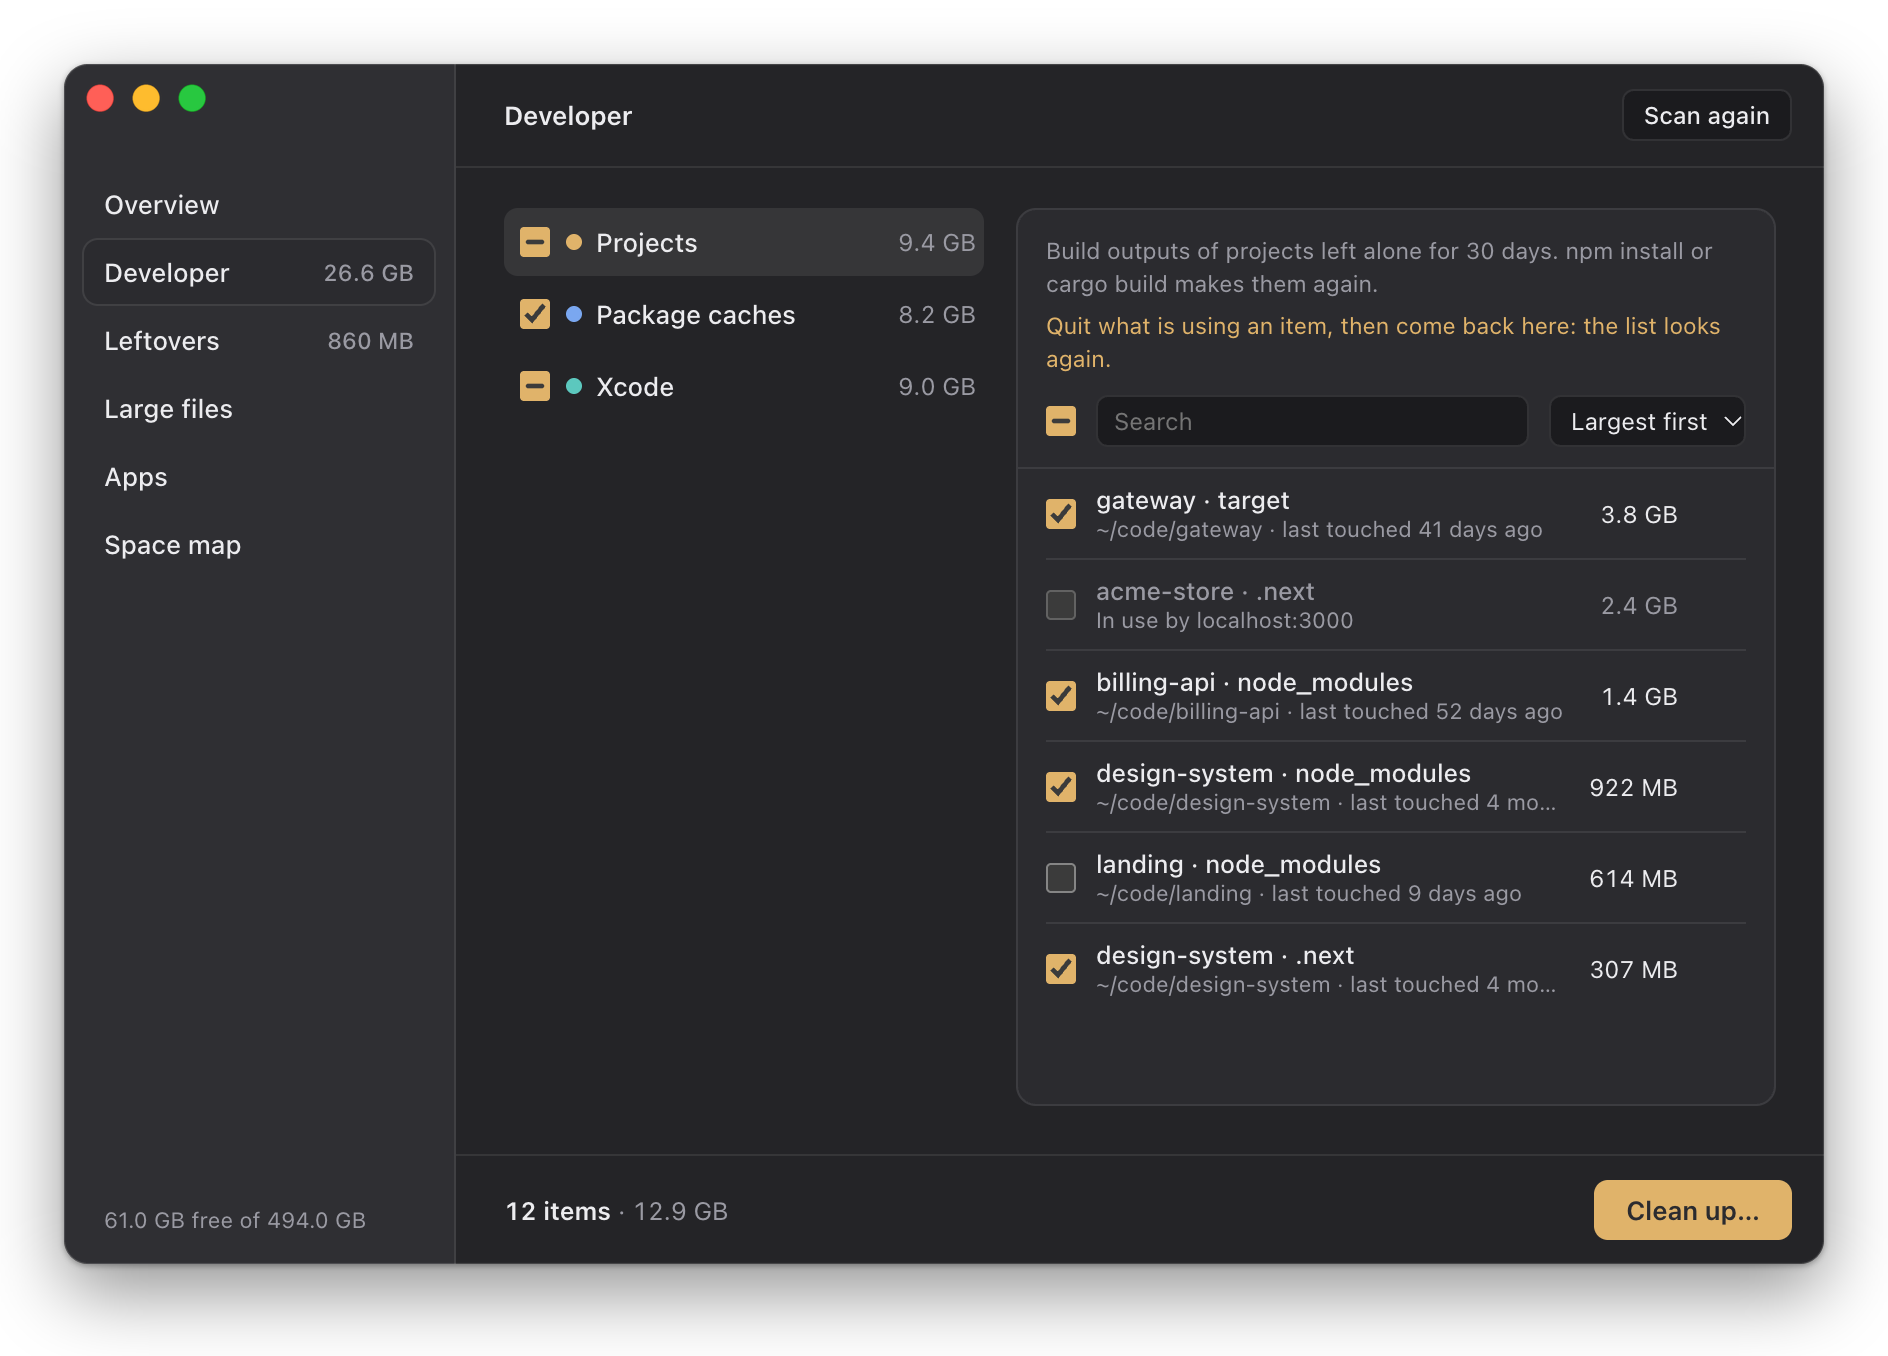
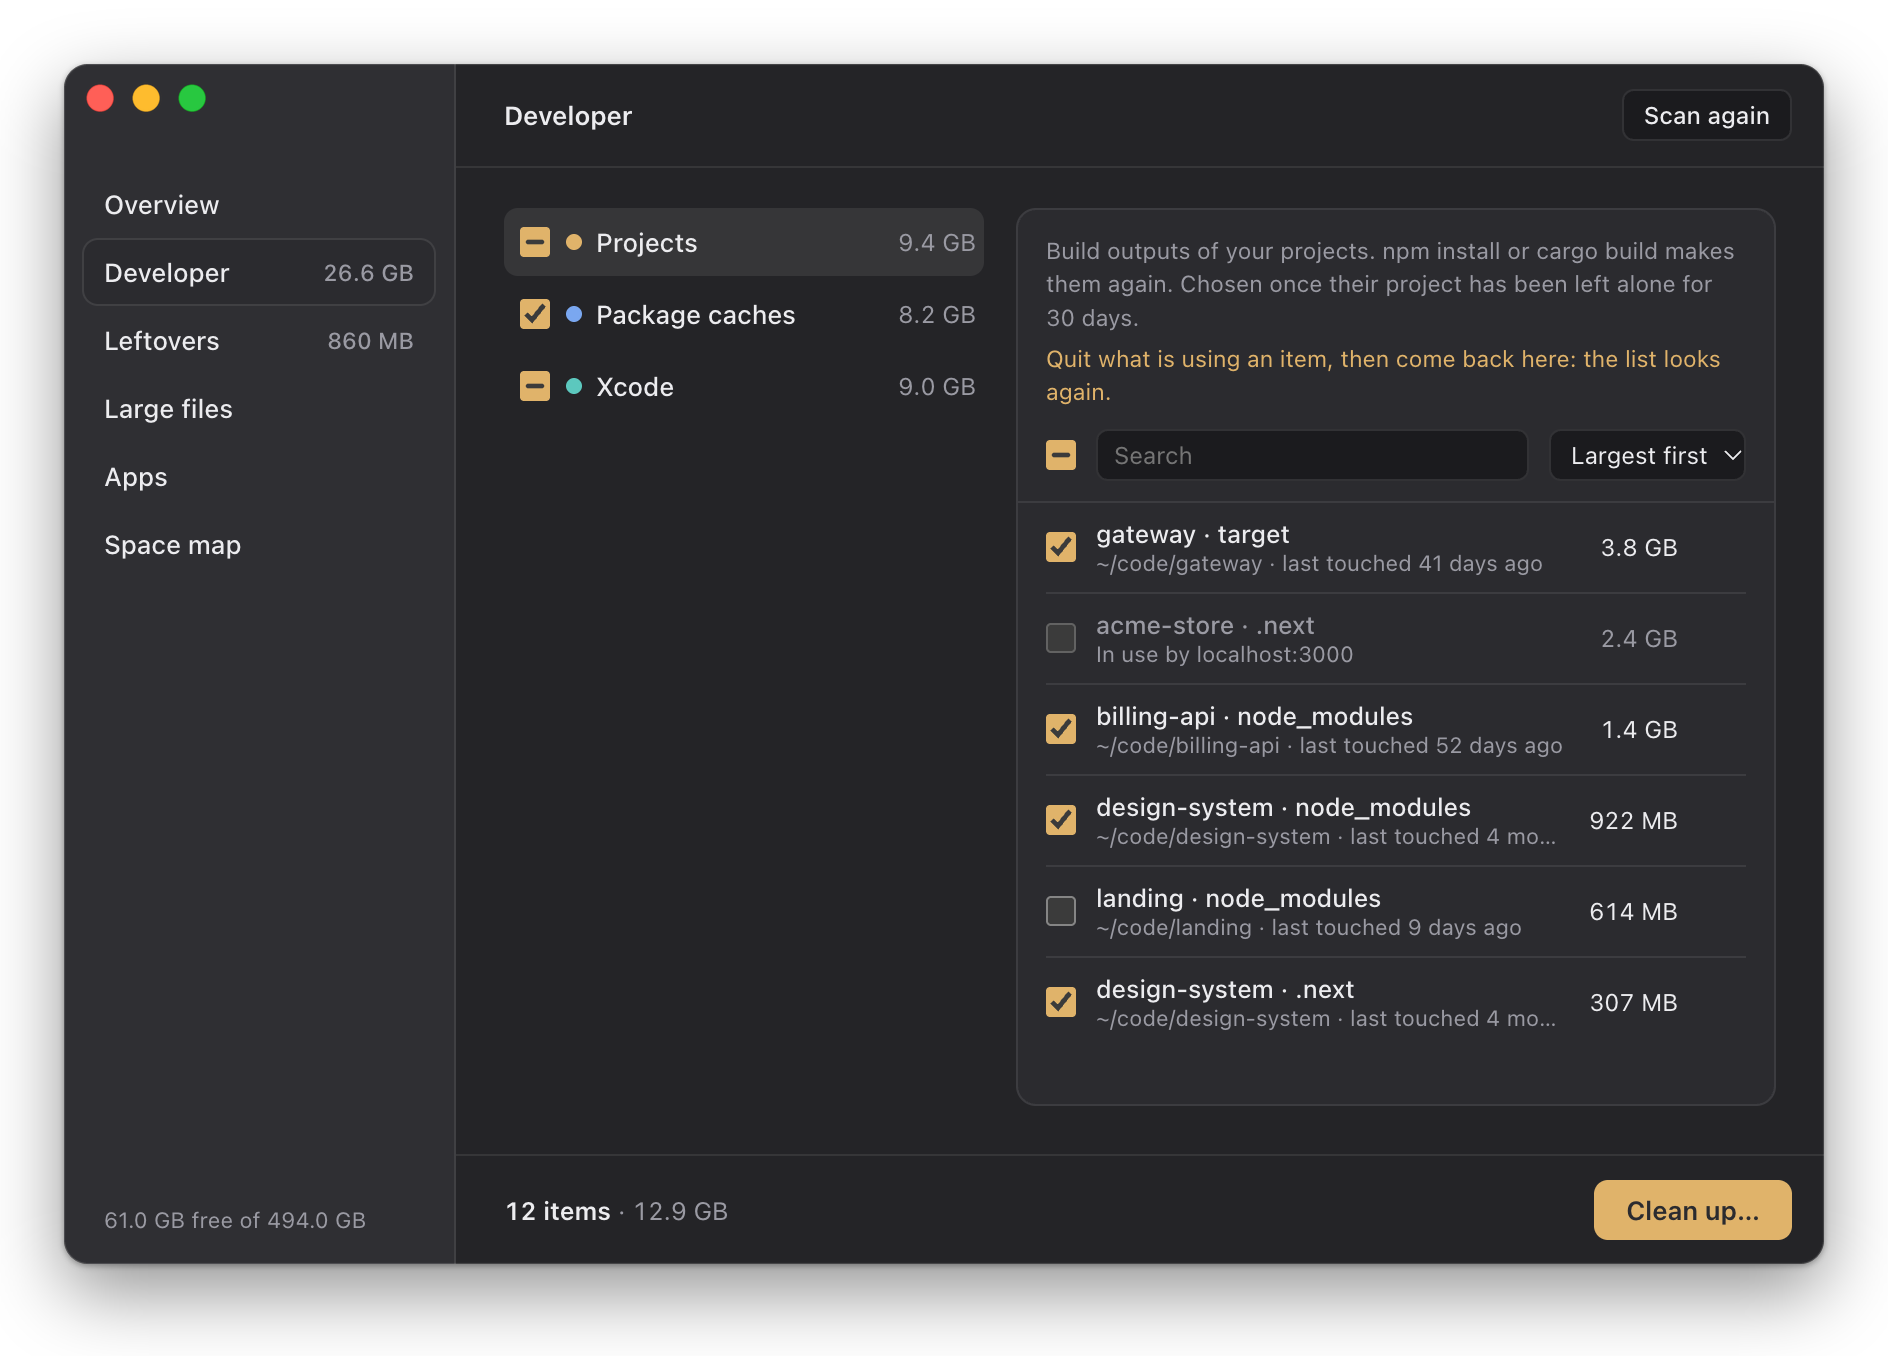
docs: say how the daemons keeping an item in use can be stopped, and retake the screenshots
The clean-up screenshots still had the projects' old description. All
six were taken again from the demo; the space map's came out the same.

diff --git a/README.md b/README.md
@@ -74,7 +74,10 @@ What gets chosen, and what happens to it:
   Local History, large files and apps. Emptying the Trash deletes what is in it for good, and is never
   chosen for you either.
 - An item that one of your processes is found using is locked, with that process named. Use is checked
-  again right before anything is removed.
+  again right before anything is removed. When nothing but Gradle or Kotlin daemons uses it and no dev
+  server runs in its project, it gets a Stop button, unless the daemons are processes a server's stop
+  would refuse. You see each daemon with its PID and command first, then they are asked to exit as
+  `kill` asks, and never forced.
 - It doesn't follow symbolic links, except that a project folder from the list above which is itself a
   link is looked in when it leads somewhere inside your home folder. Before removing an item it checks
   that it is still the folder the scan found, and skips it if it was moved or replaced.
